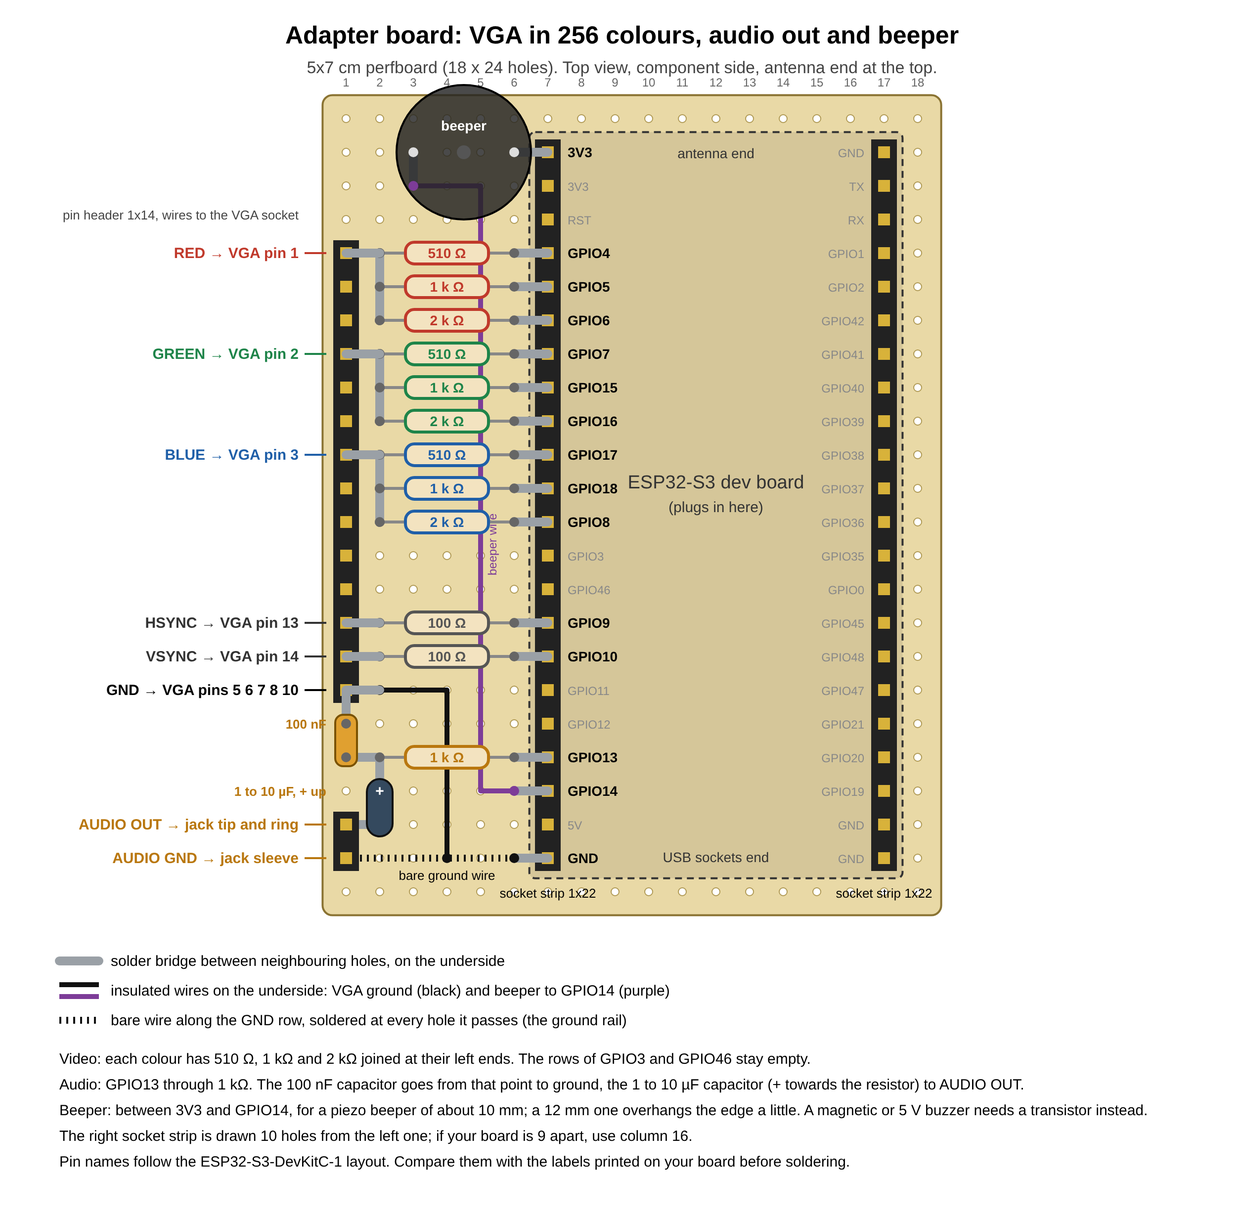
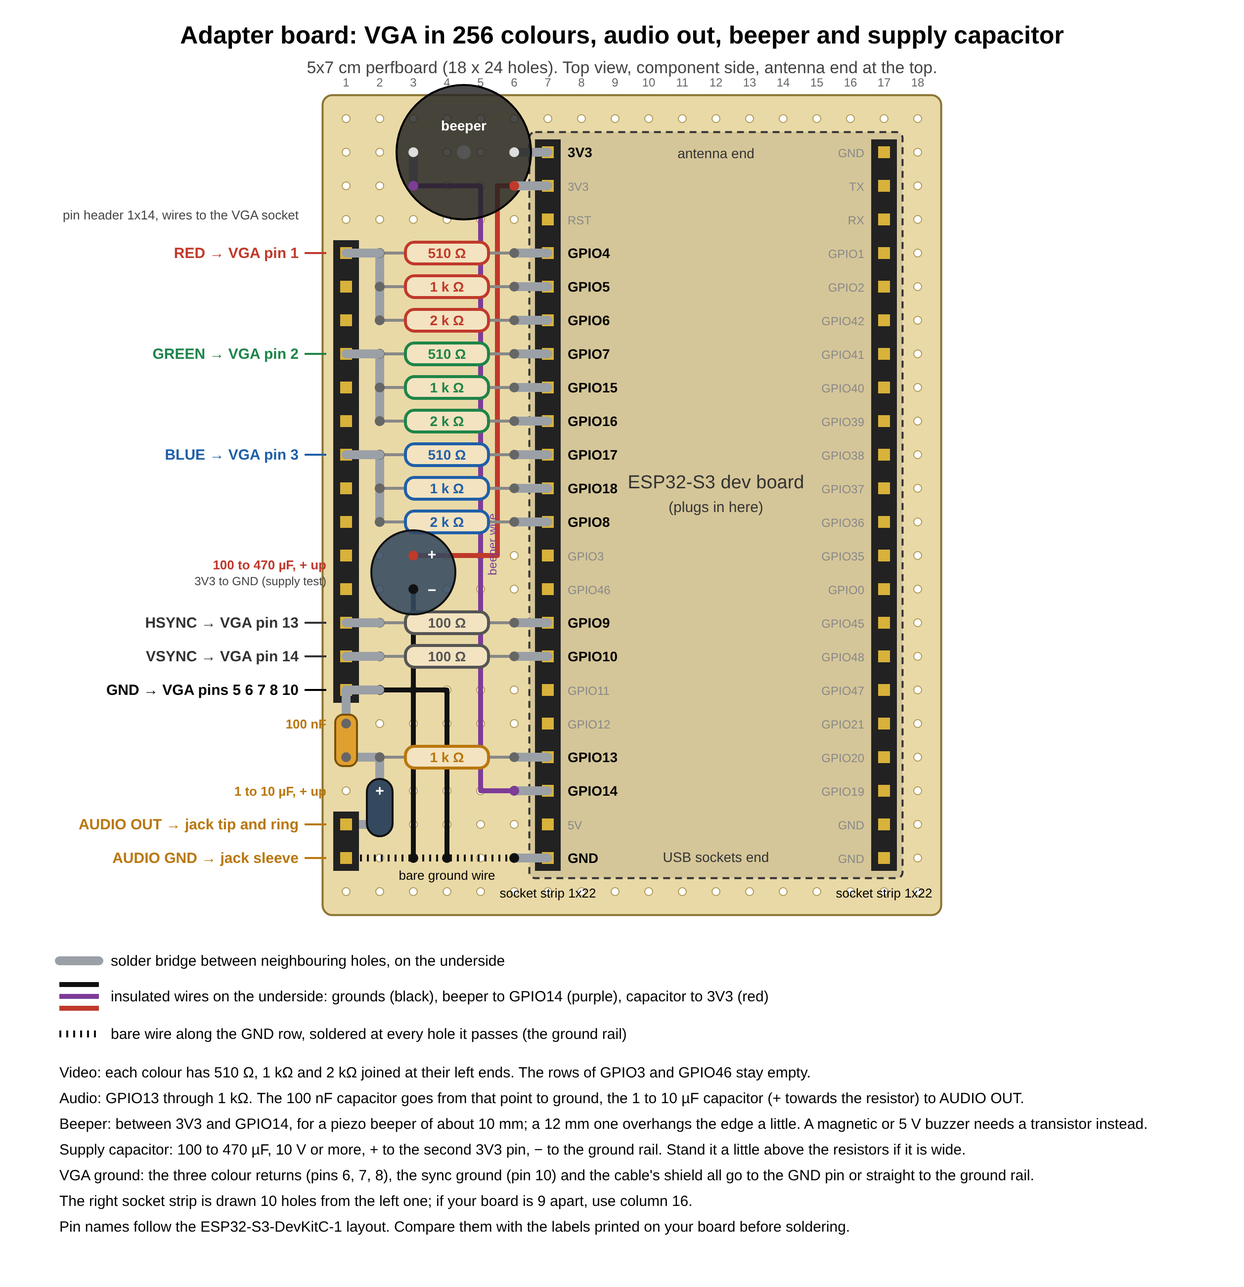
Hardware: a plan for the hand-built board, apart from the hat
The perfboard gets its own build page: what is fitted, the four things
to solder (beeper, audio, supply capacitor, colour returns), and a test
in steps to tell a 3.3 V dip from a shared ground as the cause of the
lines at high Wi-Fi transmit power. The README names each VGA ground
pin, the capacitor and an optional USB-C socket; the drawing shows the
capacitor. Documents only.

Claude-Session: https://claude.ai/code/session_011bRYU9FNyTyn7K3Yftbr43

Changed region(s): [[0.031, 0.0, 0.868, 0.9688], [0.186, 0.25, 0.217, 0.3125], [0.124, 0.25, 0.155, 0.3125]]

diff --git a/tools/gen_vga_adapter_diagram.py b/tools/gen_vga_adapter_diagram.py
@@ -8,11 +8,11 @@ J3=["GND","TX","RX","GPIO1","GPIO2","GPIO42","GPIO41","GPIO40","GPIO39","GPIO38"
 RED="#c0392b"; GRN="#1e8449"; BLU="#1f5fa8"; GRY="#555"
 slots={4:("510",RED),5:("1 k",RED),6:("2 k",RED),7:("510",GRN),8:("1 k",GRN),9:("2 k",GRN),10:("510",BLU),11:("1 k",BLU),12:("2 k",BLU),15:("100",GRY),16:("100",GRY)}
 chan=[("RED","VGA pin 1",RED,4,6),("GREEN","VGA pin 2",GRN,7,9),("BLUE","VGA pin 3",BLU,10,12)]
-W=x(COLS)+330; H=y(ROWS)+330
+W=x(COLS)+330; H=y(ROWS)+400
 o=[];a=o.append
 a(f'<svg xmlns="http://www.w3.org/2000/svg" width="{W}" height="{H}" viewBox="0 0 {W} {H}" font-family="Helvetica,Arial,sans-serif">')
 a(f'<rect width="{W}" height="{H}" fill="#fff"/>')
-a(f'<text x="{W/2}" y="44" text-anchor="middle" font-size="25" font-weight="bold">Adapter board: VGA in 256 colours, audio out and beeper</text>')
+a(f'<text x="{W/2}" y="44" text-anchor="middle" font-size="25" font-weight="bold">Adapter board: VGA in 256 colours, audio out, beeper and supply capacitor</text>')
 a(f'<text x="{W/2}" y="74" text-anchor="middle" font-size="17" fill="#444">5x7 cm perfboard (18 x 24 holes). Top view, component side, antenna end at the top.</text>')
 a(f'<rect x="{x(1)-P*0.7}" y="{y(1)-P*0.7}" width="{(COLS-1)*P+P*1.4}" height="{(ROWS-1)*P+P*1.4}" rx="10" fill="#e9d9a6" stroke="#8a7332" stroke-width="2"/>')
 for c in range(1,COLS+1):
@@ -37,6 +37,9 @@ a(f'<text x="{x(RC)}" y="{hr(22)+40}" text-anchor="middle" font-size="13">socket
 PUR="#7d3c98"; ORG="#b9770e"
 a(f'<polyline points="{x(4)},{hr(22)} {x(4)},{hr(17)} {x(2)},{hr(17)}" fill="none" stroke="#111" stroke-width="5" stroke-linejoin="round"/>')
 a(f'<polyline points="{x(3)},{hr(2)} {x(5)},{hr(2)} {x(5)},{hr(20)} {x(6)},{hr(20)}" fill="none" stroke="{PUR}" stroke-width="5" stroke-linejoin="round"/>')
+REDW="#c0392b"
+a(f'<polyline points="{x(3)},{hr(13)} {x(5)+P/2},{hr(13)} {x(5)+P/2},{hr(2)} {x(6)},{hr(2)}" fill="none" stroke="{REDW}" stroke-width="5" stroke-linejoin="round"/>')
+a(f'<polyline points="{x(3)},{hr(14)} {x(3)},{hr(22)}" fill="none" stroke="#111" stroke-width="5" stroke-linejoin="round"/>')
 a(f'<text x="{x(5)+16}" y="{hr(13)+20}" font-size="12" fill="{PUR}" transform="rotate(-90 {x(5)+16} {hr(13)+20})">beeper wire</text>')
 for pin,(val,col) in slots.items():
     yy=hr(pin)
@@ -85,22 +88,32 @@ for r in (21,22): a(f'<rect x="{x(1)-6}" y="{hr(r)-6}" width="12" height="12" fi
 for r,lab in ((21,"AUDIO OUT  →  jack tip and ring"),(22,"AUDIO GND  →  jack sleeve")):
     a(f'<line x1="{x(1)-20}" y1="{hr(r)}" x2="{x(1)-42}" y2="{hr(r)}" stroke="{ORG}" stroke-width="2"/>')
     a(f'<text x="{x(1)-48}" y="{hr(r)+5}" text-anchor="end" font-size="15" font-weight="bold" fill="{ORG}">{lab}</text>')
+# supply capacitor between 3V3 and GND, in the empty rows of GPIO3 and GPIO46
+a(f'<circle cx="{x(3)}" cy="{(hr(13)+hr(14))/2}" r="{P*1.25}" fill="#34495e" fill-opacity="0.88" stroke="#111" stroke-width="2"/>')
+a(f'<text x="{x(3)+P*0.55}" y="{hr(13)+4}" text-anchor="middle" font-size="15" font-weight="bold" fill="#fff">+</text>')
+a(f'<text x="{x(3)+P*0.55}" y="{hr(14)+6}" text-anchor="middle" font-size="15" font-weight="bold" fill="#fff">−</text>')
+dot(3,13,REDW); dot(3,14,"#111"); dot(3,22,"#111")
+a(f'<text x="{x(1)-20}" y="{(hr(13)+hr(14))/2-3}" text-anchor="end" font-size="13" fill="{REDW}" font-weight="bold">100 to 470 µF, + up</text>')
+a(f'<text x="{x(1)-20}" y="{(hr(13)+hr(14))/2+13}" text-anchor="end" font-size="12" fill="#444">3V3 to GND (supply test)</text>')
 # beeper between 3V3 and GPIO14
 bridge(6,1,7,1); bridge(3,1,3,2)
 a(f'<circle cx="{(x(3)+x(6))/2}" cy="{hr(1)}" r="{P*2.0}" fill="#222" fill-opacity="0.82" stroke="#000" stroke-width="2"/>')
 a(f'<circle cx="{(x(3)+x(6))/2}" cy="{hr(1)}" r="7" fill="#555"/>')
 a(f'<text x="{(x(3)+x(6))/2}" y="{hr(1)-22}" text-anchor="middle" font-size="14" font-weight="bold" fill="#fff">beeper</text>')
 dot(3,1,"#ddd"); dot(6,1,"#ddd"); dot(3,2,PUR); dot(6,20,PUR)
+bridge(6,2,7,2); dot(6,2,REDW)
 bridge(6,20,7,20); dot(6,20,PUR)
 ly=y(ROWS)+70
 a(f'<line x1="60" y1="{ly}" x2="100" y2="{ly}" {SB}/><text x="112" y="{ly+5}" font-size="15">solder bridge between neighbouring holes, on the underside</text>')
-a(f'<line x1="60" y1="{ly+24}" x2="100" y2="{ly+24}" stroke="#111" stroke-width="5"/><line x1="60" y1="{ly+36}" x2="100" y2="{ly+36}" stroke="{PUR}" stroke-width="5"/><text x="112" y="{ly+35}" font-size="15">insulated wires on the underside: VGA ground (black) and beeper to GPIO14 (purple)</text>')
-a(f'<line x1="60" y1="{ly+60}" x2="100" y2="{ly+60}" stroke="#111" stroke-width="7" stroke-dasharray="2 5"/><text x="112" y="{ly+65}" font-size="15">bare wire along the GND row, soldered at every hole it passes (the ground rail)</text>')
+a(f'<line x1="60" y1="{ly+24}" x2="100" y2="{ly+24}" stroke="#111" stroke-width="5"/><line x1="60" y1="{ly+36}" x2="100" y2="{ly+36}" stroke="{PUR}" stroke-width="5"/><line x1="60" y1="{ly+48}" x2="100" y2="{ly+48}" stroke="{REDW}" stroke-width="5"/><text x="112" y="{ly+41}" font-size="15">insulated wires on the underside: grounds (black), beeper to GPIO14 (purple), capacitor to 3V3 (red)</text>')
+a(f'<line x1="60" y1="{ly+74}" x2="100" y2="{ly+74}" stroke="#111" stroke-width="7" stroke-dasharray="2 5"/><text x="112" y="{ly+79}" font-size="15">bare wire along the GND row, soldered at every hole it passes (the ground rail)</text>')
 for k,t in enumerate(["Video: each colour has 510 Ω, 1 kΩ and 2 kΩ joined at their left ends. The rows of GPIO3 and GPIO46 stay empty.",
  "Audio: GPIO13 through 1 kΩ. The 100 nF capacitor goes from that point to ground, the 1 to 10 µF capacitor (+ towards the resistor) to AUDIO OUT.",
  "Beeper: between 3V3 and GPIO14, for a piezo beeper of about 10 mm; a 12 mm one overhangs the edge a little. A magnetic or 5 V buzzer needs a transistor instead.",
+ "Supply capacitor: 100 to 470 µF, 10 V or more, + to the second 3V3 pin, − to the ground rail. Stand it a little above the resistors if it is wide.",
+ "VGA ground: the three colour returns (pins 6, 7, 8), the sync ground (pin 10) and the cable's shield all go to the GND pin or straight to the ground rail.",
  "The right socket strip is drawn 10 holes from the left one; if your board is 9 apart, use column 16.",
  "Pin names follow the ESP32-S3-DevKitC-1 layout. Compare them with the labels printed on your board before soldering."]):
-    a(f'<text x="60" y="{ly+104+k*26}" font-size="15">{t}</text>')
+    a(f'<text x="60" y="{ly+118+k*26}" font-size="15">{t}</text>')
 a('</svg>')
 open('docs/hardware/vga-adapter-256.svg','w').write('\n'.join(o))

diff --git a/docs/hardware/perfboard-build.md b/docs/hardware/perfboard-build.md
@@ -1,0 +1,92 @@
+# Hand-built board: what is fitted, what is next, and the supply test
+
+The layout and every value are in [README.md](README.md). This page is the
+state of the one board that exists and the order to change it in.
+
+## State on 2026-11-18
+
+| Part | State |
+| --- | --- |
+| Video: nine colour resistors, two sync resistors, header to the VGA cable | Fitted, in use |
+| VGA ground: pin 10 (white wire) and the cable's braid | Fitted |
+| VGA ground: colour returns, pins 6, 7 and 8 | **Not connected** |
+| Beeper on GPIO14 | To fit |
+| Audio output on GPIO13 | To fit |
+| Supply capacitor, 3V3 to ground | To fit |
+| USB-C breakout on GPIO19 and GPIO20 | Parts arrived; optional, the firmware has no USB host yet |
+
+## What to solder
+
+1. **Beeper.** A piezo beeper between 3V3 and GPIO14, nothing in series.
+   Top-left corner; one insulated wire under the board to GPIO14.
+2. **Audio.** GPIO13 through 1 k. From the resistor's far end: 100 nF to
+   ground, and 1 to 10 µF in series (+ leg towards the resistor) to a two-pin
+   header. Header to the jack: signal to tip and ring, ground to sleeve.
+3. **Supply capacitor.** 100 to 470 µF, 10 V or more, in the rows of GPIO3
+   and GPIO46. + by wire to the second 3V3 pin, − by wire to the ground rail.
+4. **Colour returns.** Find the shields of the three thin coaxial wires in
+   the cut cable (pins 6, 7 and 8, by multimeter from the plug) and solder
+   them to ground with the white wire and the braid.
+
+Steps 3 and 4 are the two candidate cures for the lines. Fit them last and
+one at a time, with a look at the picture in between, or the test cannot tell
+them apart.
+
+## The supply test
+
+The question, from the hat's design: do the lines at high Wi-Fi transmit
+power come from the 3.3 V supply dipping during a transmit burst (a capacitor
+helps), from the radio's current sharing thin ground wires with the video
+return (grounded colour returns and a ground plane help), or from both? The
+hat already has the ground plane and grounded returns; a second 100 µF
+capacitor across 3.3 V next to the dev board is proposed and waits on this
+result.
+
+Set-up, the same for every row: same monitor or VGA-to-HDMI adapter, same
+power supply and cable, same place relative to the router. In
+`C:\.config\network.ini`, `[wifi]`, set `tx_power_dbm = 20` and restart.
+Watch from the first picture until about ten seconds after the Wi-Fi bars
+appear; that is when the lines showed on 2026-11-16. Look by eye: the webcam
+does not show them.
+
+| Step | Board | Lines at 20 dBm | Lines at 2 dBm | Notes |
+| --- | --- | --- | --- | --- |
+| A | Beeper and audio fitted, no capacitor, returns open | | | The baseline. Lines expected, as on 2026-11-16 |
+| B | A plus the supply capacitor | | | |
+| C | B plus the colour returns grounded | | | |
+| D (optional) | C with the capacitor lifted or cut out | | | Tells whether the returns alone are enough |
+
+For each cell write none, fewer or fainter, or the same. If B leaves fainter
+lines, try a larger capacitor or a second one; if it changes nothing, a
+capacitor from 5V to ground is a quick extra try (the dip may be on the USB
+cable's side of the regulator).
+
+What each outcome means for the hat:
+
+- B cures or clearly reduces them: the hat gets the second 100 µF capacitor
+  on 3.3 V.
+- Only C cures them: the hat's ground plane and returns already cover it and
+  the extra capacitor is not needed.
+- Neither: the cause is elsewhere (radiation into the cable or the HDMI
+  adapter). Next tries are a clip-on ferrite on the VGA cable and small
+  capacitors on the three colour outputs, for which the hat can carry empty
+  footprints.
+- If 20 dBm comes out clean, the 2 dBm default in "Wi-Fi transmit power"
+  (`docs/DECISIONS.md`) can be looked at again.
+
+After the test set `tx_power_dbm` back to 2, or remove the line.
+
+## Open: VGA pin 5
+
+On the hat, pin 5 is not ground: it is pulled up to 3.3 V and read on
+GPIO47, and a monitor pulls it low. No firmware reads GPIO47 yet. When it
+does, the hand-built board needs one of these so that the same firmware
+works:
+
+| Option | Cost |
+| --- | --- |
+| Wire pin 5 to GPIO47 with a 10 k pull-up to 3V3, as the hat (suggested once the firmware reads it) | One wire across to the right socket strip and one resistor |
+| Tie GPIO47 to ground: "a monitor is always there" | One wire; no detection |
+| Leave it, and have the firmware treat "no monitor" as "unknown" | Nothing on the board; a rule in the firmware |
+
+Until then pin 5 stays as it is. The owner decides.

diff --git a/docs/journal/2026-11-18-perfboard-plan.md b/docs/journal/2026-11-18-perfboard-plan.md
@@ -1,0 +1,92 @@
+# The hand-built board gets its own plan
+
+2026-11-18. Documents and a drawing only; nothing here was soldered or run.
+
+## What was asked
+
+> Voy a desconectar la placa y hacer algunos cambios para añadir el beeper y
+> la salida de jack, tambien el condensador mencionado en el hilo de diseño
+> de la PCB. [...] quiero separar la versión producida de la versión casera
+> con perfboard. Recuerdame todos los cambios pendientes a la perfboard,
+> ahora solo tiene la salida VGA
+
+And a few minutes later:
+
+> me han llegado las piezas de usb c connection breakout, es posible con eso
+> tener conexión para teclado y/o ratón?
+
+## What was found
+
+- `docs/hardware/README.md` and its drawing already described the beeper
+  (3V3 to GPIO14) and the audio filter (GPIO13, 1 k, 100 nF, 1 to 10 µF),
+  but the board as built has only the video part.
+- The board's VGA cable has pin 10 and the braid grounded. The colour
+  returns, pins 6, 7 and 8, are open; the README's table said they were
+  ground without saying that they were not wired.
+- The hat's design thread (2026-11-17) gave two likely causes for the lines
+  at high Wi-Fi transmit power, by reasoning and not by measurement: the
+  radio's current sharing thin ground wires with the video return, and the
+  3.3 V supply dipping during a burst. It proposed a second 100 µF capacitor
+  on the hat and a test on the perfboard first: 100 to 470 µF from 3V3 to
+  ground.
+- The firmware has `tx_power_dbm` in `network.ini` (2 to 20, default 2), so
+  the test needs no new code.
+- The hat no longer grounds VGA pin 5; it reads it on GPIO47 to sense a
+  monitor. No firmware reads it yet.
+
+## Options considered
+
+Where the capacitor goes on the perfboard. Its place matters little
+electrically (a few centimetres of wire are nothing against the capacitor's
+own resistance at the speed of a transmit burst), so it was chosen by fit:
+
+| Place | For | Against |
+| --- | --- | --- |
+| Top-right corner, on the GND pin beside the antenna end | − leg lands on a ground pin | The can does not fit beside the socket strip and the dev board's edge; it stands next to the antenna; its + hole neighbours the TX pin |
+| Top-left corner, left of the beeper | + is 13 mm from 3V3 | Crowds the beeper; the ground wire is over 5 cm; close to the antenna end |
+| **The empty rows of GPIO3 and GPIO46** | In the middle of the video resistors, far from the antenna, 2 cm from the ground rail the video return uses | A can wider than 6 mm overlaps the resistors on either side and must stand above them or lie down |
+
+How to run the test:
+
+| Way | For | Against |
+| --- | --- | --- |
+| Solder everything, then look | One session | If the lines go, nobody knows whether the capacitor or the grounded returns did it, and the hat's question stays open |
+| **Capacitor and colour returns last, one at a time, looking in between** | Separates the two causes | Two more restarts |
+
+## What was chosen
+
+The third place and the test in steps, both as recommendations in the
+documents; the owner solders and may do otherwise. The owner's own decision
+in this entry is the separation: the perfboard and the hat are two designs
+with their own documents on one pin map (`docs/DECISIONS.md`).
+
+VGA pin 5 was not decided: it is recorded as open with three options, to be
+settled when the firmware reads GPIO47.
+
+## What was built
+
+- `docs/hardware/perfboard-build.md`: the state of the board, the four
+  things to solder, the test table to fill in, what each outcome means for
+  the hat, and the open question of pin 5.
+- `docs/hardware/README.md`: the ground pins one by one, the supply
+  capacitor, and an optional USB-C socket on GPIO19 and GPIO20.
+- The drawing (`tools/gen_vga_adapter_diagram.py`) shows the capacitor and
+  its two wires. The PNG was rendered from the SVG in a browser and looked
+  at.
+
+Not tested: no code changed, so the PC tests were not run; nothing was
+flashed.
+
+## The USB-C breakout
+
+Yes for the hardware: D− to GPIO19, D+ to GPIO20, VBUS to the 5V pin, ground
+to ground. Not yet for use: the firmware has no USB host. One device without
+a hub; the same pins as the dev board's USB socket, so not both at once;
+56 k from each CC pin to VBUS only matters for devices with their own USB-C
+plug.
+
+## What is left
+
+- The owner fills in the test table; the result goes to the hat's design.
+- USB host in the firmware (a backlog item of its own when it is taken up).
+- VGA pin 5 on this board, when the firmware reads the monitor sense.

diff --git a/docs/hardware/README.md b/docs/hardware/README.md
@@ -1,9 +1,15 @@
 # Adapter board: VGA, audio and beeper
 
+This is the hand-built board. The manufactured board (the "hat", in
+`hardware/hat/` once pull request 2 is merged) is a separate design on the same pin map, so one firmware
+serves both. What is soldered on the hand-built board today, what is still
+to add and the supply test to run while adding it are in
+[perfboard-build.md](perfboard-build.md).
+
 A carrier board on 5x7 cm perfboard (18 x 24 holes). The dev board plugs into
 two 1x22 socket strips, and each resistor sits in the row of its own GPIO pin,
-so the video part needs no wires. The board also carries the audio output filter and a
-beeper.
+so the video part needs no wires. The board also carries the audio output filter, a
+beeper and a supply capacitor.
 
 ![Board layout](vga-adapter-256.png)
 
@@ -43,7 +49,14 @@ greys.
 | 3 | Blue |
 | 13 | HSYNC |
 | 14 | VSYNC |
-| 5, 6, 7, 8, 10 | Ground |
+| 6, 7, 8 | Ground: the returns of red, green and blue. In a cable these are the shields of the three thin coaxial wires |
+| 10 | Ground: the return of the two sync signals |
+| 5 | Ground. The hat uses this pin to sense a monitor instead (pulled up, read on GPIO47); whether the hand-built board follows is open, see [perfboard-build.md](perfboard-build.md) |
+| Shell | Ground: the cable's outer braid |
+
+Ground every one of them. With the colour returns left open the picture
+still shows, but each colour's current then comes back through whatever
+ground it finds, which is the path the radio's current also uses.
 
 ### Wire colours of the cut VGA cable in use
 
@@ -108,8 +121,48 @@ silent. This direct connection is only for a piezo beeper. A magnetic buzzer or
 a 5 V buzzer with built-in oscillator draws too much current for a pin and
 needs a transistor.
 
+## Supply capacitor
+
+An electrolytic capacitor of 100 to 470 µF, rated 10 V or more, between 3V3
+and ground. It stands in the two empty rows of GPIO3 and GPIO46, in the
+middle of the video resistors and away from the antenna: + leg in the GPIO3
+row, − leg in the GPIO46 row. One insulated wire under the board takes + up
+to the second 3V3 pin, another takes − down to the ground rail. A wide
+capacitor stands a little above the neighbouring resistors, or lies on its
+side. A 100 nF ceramic capacitor across the same two legs is optional.
+
+It is there to test whether the lines seen on the picture at high Wi-Fi
+transmit power come from the 3.3 V supply dipping when the radio transmits
+(`docs/DECISIONS.md`, "Found on the bench"). The video voltage is the
+3.3 V supply divided by the resistors, so a dip in the supply is a dip in
+brightness. The test is described in [perfboard-build.md](perfboard-build.md).
+
+## USB socket for a keyboard or mouse (optional, no firmware yet)
+
+A USB-C breakout board can be wired to the chip's USB pins on the right
+socket strip. Nothing in the firmware drives a USB device yet.
+
+| Breakout pin | Goes to |
+| --- | --- |
+| D− | GPIO19 |
+| D+ | GPIO20 |
+| VBUS | 5V |
+| GND | GND |
+| CC1, CC2 | 56 k each to VBUS. Needed only for a device with its own USB-C plug; a USB-C to USB-A adapter works without |
+
+- Keep the two data wires short, the same length and twisted together.
+- GPIO19 and GPIO20 are also the data pins of the dev board's socket marked
+  USB. Use one or the other, never both at once.
+- One device only: the chip has a single port. Two devices need a hub or one
+  receiver shared by keyboard and mouse.
+- The 5V pin has no current limit of its own here (the hat has a switch for
+  that). A 500 mA resettable fuse in the VBUS wire is a cheap precaution.
+
 ## Ground
 
 A bare wire runs along the GND row at the bottom left and is soldered at every
-hole it passes. The audio ground pin sits on it, and one insulated wire takes
-ground from it up to the VGA ground pin.
+hole it passes. The audio ground pin sits on it, the supply capacitor's − leg
+is wired to it, and one insulated wire takes ground from it up to the VGA
+ground pin. The VGA cable brings five ground wires (three colour returns, the
+sync ground and the braid) and the header has one ground pin: twist them
+together into that pin, or solder some of them straight onto the bare wire.

diff --git a/docs/DECISIONS.md b/docs/DECISIONS.md
@@ -15,6 +15,7 @@ Last updated: 2026-11-16.
 | Resolution | 640x480 at 60 Hz | Basic VGA mode; fits the PSRAM bandwidth with room to spare |
 | Colour depth | 256 colours (red 3 bits, green 3, blue 2), with 64 colours (2 bits each) as a fallback | Enough for the look; one byte per pixel sent straight to the pins, no palette step |
 | Adapter board | One 5x7 cm perfboard carrier holds the VGA resistors, the audio output filter and the beeper |  It all fits beside the dev board |
+| Two boards, one pin map | The hand-built perfboard board and the manufactured hat are separate designs with separate documents (the owner, 2026-11-18): `docs/hardware/` is the perfboard, `hardware/hat/` the hat. Both keep the same pin map so that one firmware serves both. What is tried on the perfboard feeds the hat (`docs/hardware/perfboard-build.md`) | Owner's choice |
 | VGA wiring | Resistor DAC on a 5x7 cm perfboard carrier: 510, 1k, 2k ohm per colour, 100 ohm on each sync line, 1/4 W | Simple to build; every signal is on the left header next to its resistor |
 | Blue's third pin | GPIO8 repeats blue's top bit | Keeps white and four greys neutral with only two blue bits in the byte |
 | Video pins | Red 4, 5, 6. Green 7, 15, 16. Blue 17, 18, 8. HSYNC 9. VSYNC 10 | See `docs/hardware/README.md` |
@@ -413,6 +414,8 @@ and reasons are in `docs/journal/2026-11-17-program-lifecycle.md`.
 | A PC build of the desktop for testing | Yes, no | Decided: yes. See Decided |
 | How the PC build shows the screen | SDL window, image files only | Open |
 | Clock chip | DS3231 module, another I2C chip | DS3231 |
+| VGA pin 5 on the hand-built board, once the firmware reads the hat's monitor sense on GPIO47 | Wire pin 5 to GPIO47 with a pull-up as the hat; tie GPIO47 to ground; leave the board and have the firmware treat it as unknown | Wire it as the hat, when the firmware reads it (`docs/hardware/perfboard-build.md`) |
+| Cause of the lines at high Wi-Fi transmit power | 3.3 V supply dip, shared ground, radiation | Open until the supply test on the hand-built board is run (`docs/hardware/perfboard-build.md`) |
 
 ## Ideas kept for later
 

diff --git a/docs/journal/README.md b/docs/journal/README.md
@@ -122,3 +122,4 @@ Plain words, real numbers, no summaries of summaries.
 | 2026-11-17 | [Window themes built](2026-11-17-window-themes-built.md) | The owner picks sky, glacier and midnight: a table of themes in `core/gfx`, the user interface asking it for its colours instead of naming grey, black and white, flat edges and title bars beside the classic bevels, the choice in Display and in `desktop.ini`. PC only |
 | 2026-11-17 | [The BIOS as a second firmware](2026-11-17-bios-second-stage.md) | Step 2 of the BIOS: a 1 MB partition taken from C:, a bootloader file of ours that starts the BIOS unless a word in memory kept across a restart asks for the OS, the BIOS firmware (294 KB) that runs the self-test and restarts into the OS, and the OS skipping its own self-test after it. Both firmwares compile; nothing has run on the board, and the board turn wipes C: |
 | 2026-11-17 | [The BIOS's first screen](2026-11-17-bios-first-screen.md) | The self-test was not seen because the monitor takes 5 s to wake. The owner's idea: a first screen as the BIOSes of the nineties had, with an energy badge of our own, for 3 s, and the memory count at its real speed. Two drawings, his changes to the first, what was built and tested on the PC |
+| 2026-11-18 | [The hand-built board gets its own plan](2026-11-18-perfboard-plan.md) | The owner separates the perfboard from the manufactured hat and is about to add the beeper, the audio jack and a supply capacitor: what is pending, where the capacitor goes, grounding the colour returns, a USB-C breakout for a keyboard, and a test in steps to tell a supply dip from a shared ground |
